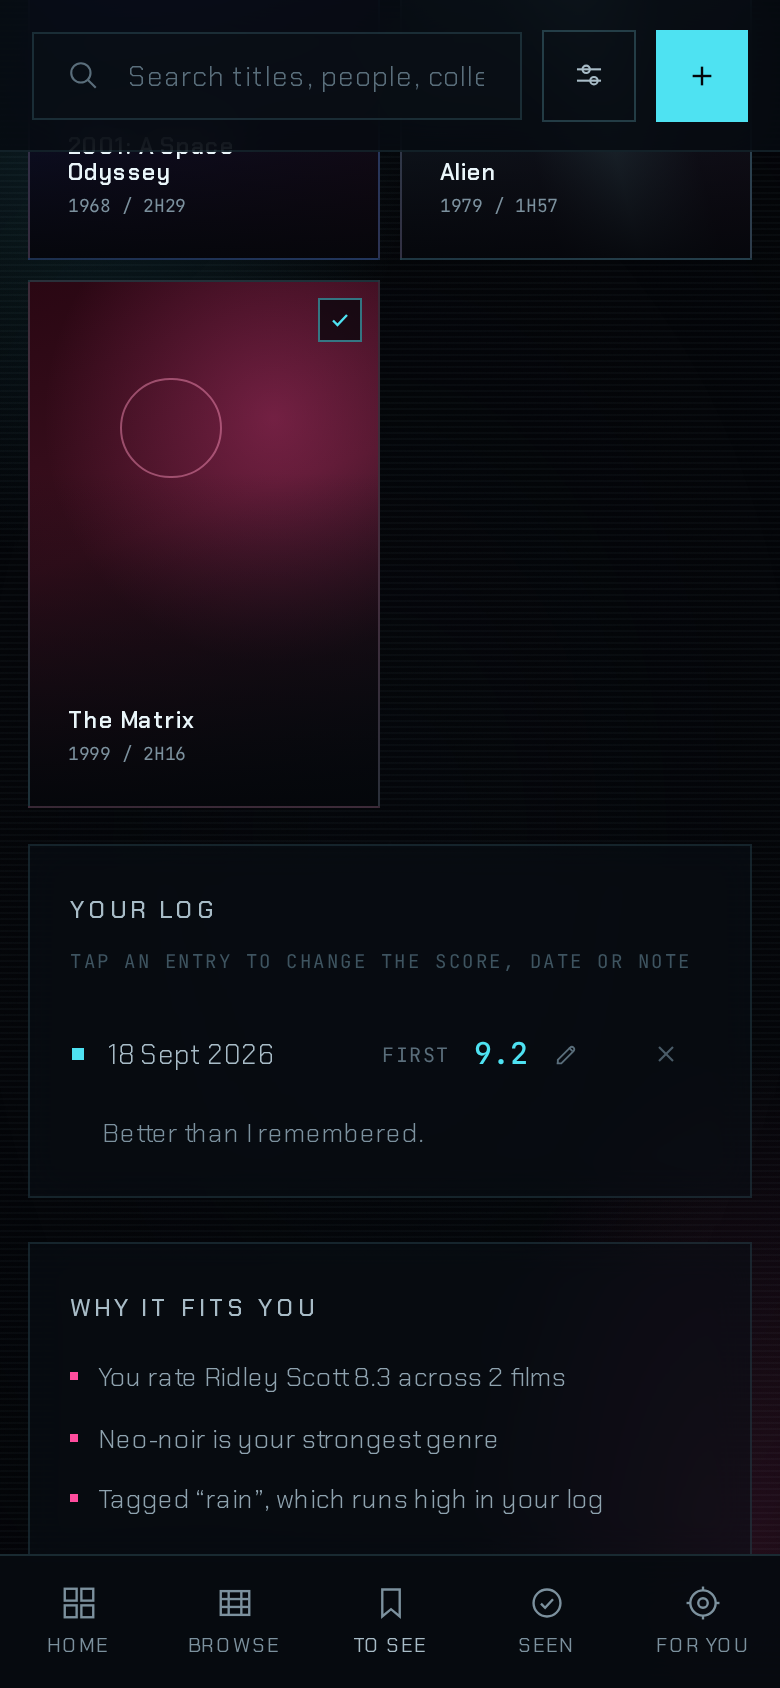
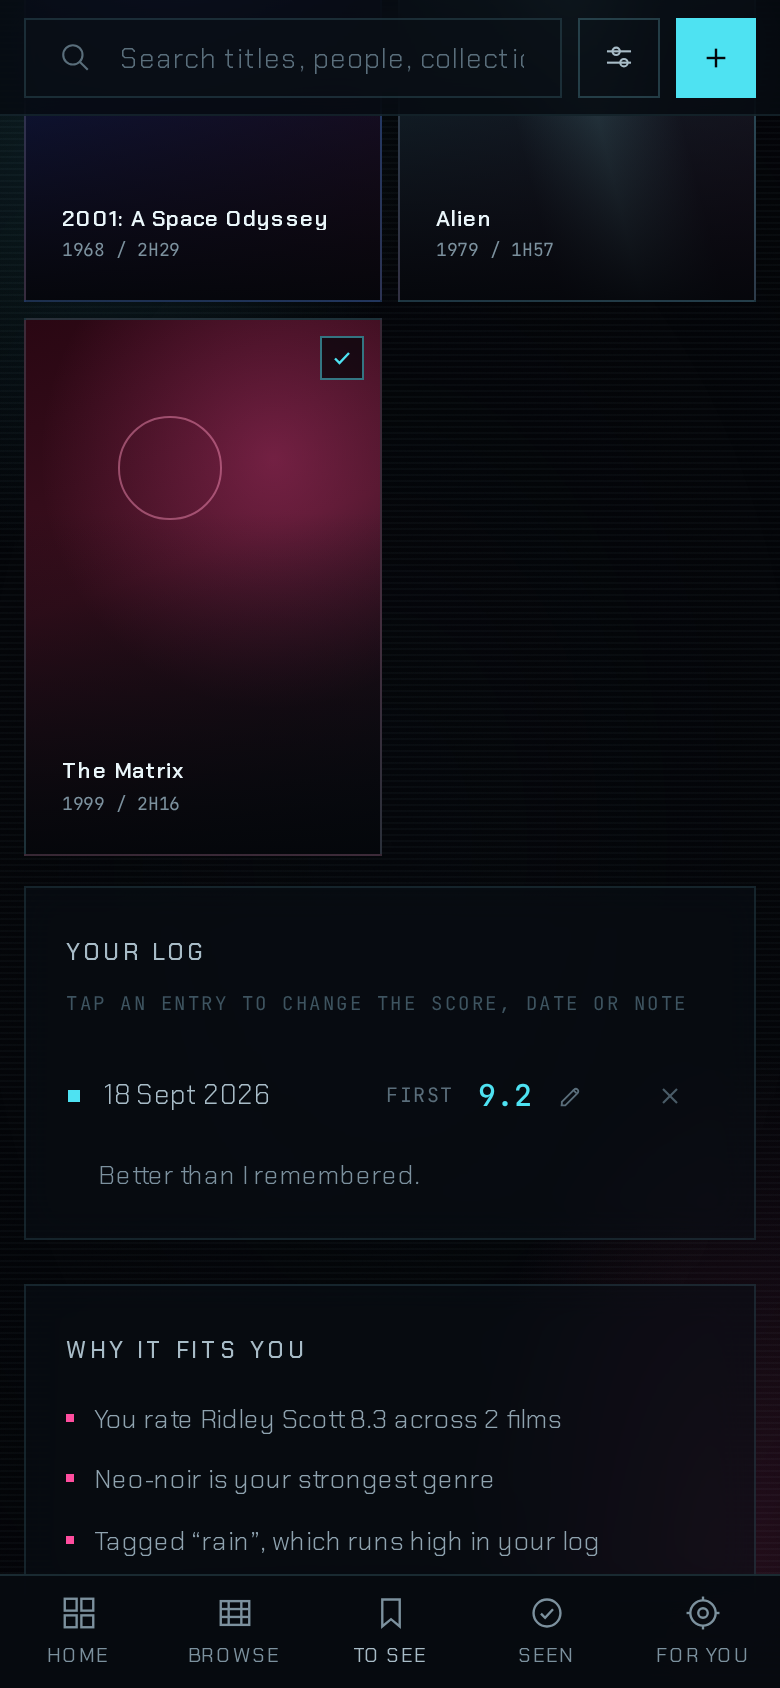
Let a watch be removed, and take the phone scale down again
A film marked seen by accident could only be un-marked from a small x on
that film's own page. From Seen — where you would actually go looking —
there was no way back at all.

The edit box now carries REMOVE, so it is reachable from anywhere you can
open an entry. It takes two taps rather than a confirm dialog, which on a
phone lands under your thumb mid-scroll: the first tap arms it and turns
the footer note magenta ("there is no undo"), the second deletes. It
disarms itself after five seconds, CANCEL leaves the entry alone, and it
only appears when editing — never while logging something new.

Second pass on the phone scale, smaller again throughout: the top bar
76px -> 58px and the tab bar 64 -> 54, which is height every route pays;
headings 21 -> 19px, tonight's pick 27 -> 24px, stat figures 24 -> 21px;
gutters 14 -> 12px, section gaps 18 -> 15px, panels 16 -> 14px; buttons
46 -> 42, chips 34 -> 31; poster captions and grid gaps tightened.

Tap targets came down with it — chips are the smallest at 31px, under
the 44px usually recommended. That is the trade for the density asked
for, and it is one line to raise if anything turns out fiddly to hit.

Verified in Chromium against the built bundle: removing an entry from
Seen, including that one tap does not delete, that it disarms itself,
that CANCEL is safe, that the right entry goes, that it stays gone after
a reload and the dashboard count follows; the edit box checked for
[…]

diff --git a/src/styles/layout.css b/src/styles/layout.css
@@ -605,11 +605,11 @@
   .grid-posters {
     /* Three across, the density a phone film grid is normally read at. */
     grid-template-columns: repeat(auto-fill, minmax(100px, 1fr));
-    gap: 10px;
+    gap: 8px;
   }
-  .poster > .cap { padding: 9px 8px; gap: 2px; }
+  .poster > .cap { padding: 8px 7px; gap: 1px; }
   .poster > .cap b {
-    font-size: 11.5px;
+    font-size: 11px;
     letter-spacing: 0.02em;
     /* A title with no space in it (Annihilation) is wider than the card.
        Left alone it was sliced mid-word, since line-clamp only ellipsises
@@ -627,27 +627,45 @@
 
   /* The chips were sized for thumbs on a tablet; at this width they cost a
      third of the row each. */
-  .chip { height: 34px; padding: 0 13px; font-size: 11px; }
-  .filter-rows { gap: 8px; }
-  .filter-row { gap: 8px; }
+  .chip { height: 31px; padding: 0 11px; font-size: 10.5px; }
+  .filter-rows { gap: 7px; }
+  .filter-row { gap: 7px; }
 
-  .screen { --gutter: 14px; padding: 16px var(--gutter) 28px; }
+  .screen { --gutter: 12px; padding: 13px var(--gutter) 26px; }
   /* The gaps between sections are set inline per screen, so they need
      overriding here rather than at the source. */
-  .screen { gap: 18px !important; }
-  .screen-head { gap: 10px; }
+  .screen { gap: 15px !important; }
+  .screen-head { gap: 9px; }
 
-  .h1 { font-size: 21px; letter-spacing: 0.04em; }
-  .h2, .h3 { font-size: 12px; }
-  .meta { font-size: 10px; }
-  .lbl { font-size: 9.5px; }
+  .h1 { font-size: 19px; letter-spacing: 0.04em; }
+  .h2, .h3 { font-size: 11.5px; }
+  .meta { font-size: 9.5px; }
+  .lbl { font-size: 9px; }
 
-  .panel { padding: 16px; }
-  .hero-body { padding: 16px 14px; }
-  .keyart { min-height: 220px; }
+  .panel { padding: 14px; }
+  .hero-body { padding: 14px 12px; }
+  .keyart { min-height: 190px; }
 
-  .starter-note { padding: 12px 13px; gap: 10px; }
-  .starter-note b + span { font-size: 12px; }
+  /* The bar is fixed at the top of every screen, so its height is the one
+     size that costs on every route. */
+  .topbar { height: 58px; padding: 0 12px; gap: 8px; }
+  .topbar .field { height: 40px; }
+  .topbar .btn, .topbar .btn-icon-sm { height: 40px; padding: 0 11px; }
+
+  .nav-item { height: 54px; }
+  .main { padding-bottom: 54px; }
+
+  .stat { min-height: 66px; padding: 10px 12px; gap: 8px; }
+  .stat b { font-size: 21px; }
+
+  .btn { height: 42px; font-size: 12px; }
+  .btn-sm { height: 36px; }
+
+  .list-row { padding: 12px; gap: 10px 12px; }
+  .empty-note { padding: 26px 18px; font-size: 13px; }
+
+  .starter-note { padding: 11px 12px; gap: 9px; }
+  .starter-note b + span { font-size: 11.5px; }
 }
 
 /* ── tonight's pick ───────────────────────────────────────────────────
@@ -662,7 +680,7 @@
 }
 
 @media (max-width: 860px) { .hero-title { font-size: 34px; } }
-@media (max-width: 480px) { .hero-title { margin-top: 12px; font-size: 27px; } }
+@media (max-width: 480px) { .hero-title { margin-top: 10px; font-size: 24px; } }
 
 /* ── the score on Seen, as an edit control ────────────────────────────
    Mirrors .log-entry on the film page: tap the rating to change it. */
@@ -707,4 +725,29 @@
     text-overflow: ellipsis;
     white-space: nowrap;
   }
+}
+
+/* ── removing a watch ─────────────────────────────────────────────────
+   Quiet until armed, then unmistakably the destructive one. */
+.btn-danger {
+  border: 1px solid rgba(255, 77, 158, 0.32);
+  background: none;
+  color: var(--magenta);
+}
+.btn-danger:hover { border-color: var(--magenta); background: rgba(255, 77, 158, 0.08); }
+.btn-danger.is-armed {
+  border-color: var(--magenta);
+  background: var(--magenta);
+  color: var(--void);
+  font-weight: 500;
+}
+
+.modal-foot .foot-note { flex-grow: 1; }
+
+@media (max-width: 640px) {
+  /* Four things do not fit on one line at this width; the note takes its
+     own row above the buttons rather than squeezing them. */
+  .modal-foot { flex-wrap: wrap; gap: 10px; padding: 16px 18px; }
+  .modal-foot .foot-note { flex: 1 0 100%; line-height: 1.5; }
+  .modal-foot .btn { flex: 1 1 auto; }
 }

diff --git a/src/components/LogModal.tsx b/src/components/LogModal.tsx
@@ -33,6 +33,9 @@ export function LogModal({
   const [score, setScore] = useState(editing ? Math.round(editing.score * 10) : 75);
   const [note, setNote] = useState(editing?.note ?? '');
   const [collections, setCollections] = useState<string[]>([]);
+  /* Removing a watch cannot be undone, so it takes two taps rather than a
+     confirm dialog — which on a phone lands under your thumb mid-scroll. */
+  const [armed, setArmed] = useState(false);
 
   const alreadySeen = useMemo(
     () => (picked ? state.log.some((e) => e.filmId === picked.id) : false),
@@ -43,6 +46,13 @@ export function LogModal({
   useEffect(() => {
     if (!editing) setRewatch(alreadySeen);
   }, [alreadySeen, editing]);
+
+  // Never leave the delete armed: step away and it goes back to safe.
+  useEffect(() => {
+    if (!armed) return;
+    const t = setTimeout(() => setArmed(false), 5000);
+    return () => clearTimeout(t);
+  }, [armed]);
 
   useEffect(() => {
     const onKey = (e: KeyboardEvent) => {
@@ -83,6 +93,12 @@ export function LogModal({
     };
     if (editing) dispatch({ type: 'editLog', entry });
     else dispatch({ type: 'log', entry, collections });
+    onClose();
+  }
+
+  function remove() {
+    if (!editing) return;
+    dispatch({ type: 'unlog', id: editing.id });
     onClose();
   }
 
@@ -212,13 +228,27 @@ export function LogModal({
         </div>
 
         <div className="modal-foot">
-          <span className="meta" style={{ flexGrow: 1, fontSize: 10, color: 'var(--ink-7)' }}>
-            {!picked
-              ? 'PICK A FILM TO CONTINUE'
-              : editing
-                ? 'UPDATES YOUR SCORE AND YOUR PICKS'
-                : `THIS WILL BE FILM ${state.log.length + 1} AND UPDATES YOUR PICKS`}
+          <span
+            className="meta foot-note"
+            style={{ fontSize: 10, color: armed ? 'var(--magenta-hi)' : 'var(--ink-7)' }}
+          >
+            {armed
+              ? 'THIS DELETES THE WATCH AND ITS SCORE — THERE IS NO UNDO'
+              : !picked
+                ? 'PICK A FILM TO CONTINUE'
+                : editing
+                  ? 'UPDATES YOUR SCORE AND YOUR PICKS'
+                  : `THIS WILL BE FILM ${state.log.length + 1} AND UPDATES YOUR PICKS`}
           </span>
+          {editing && (
+            <button
+              type="button"
+              className={armed ? 'btn btn-danger is-armed' : 'btn btn-danger'}
+              onClick={() => (armed ? remove() : setArmed(true))}
+            >
+              {armed ? 'TAP AGAIN' : 'REMOVE'}
+            </button>
+          )}
           <button type="button" className="btn btn-ghost" onClick={onClose}>CANCEL</button>
           <button type="button" className="btn btn-primary" disabled={!picked} onClick={save}>
             <Icon name="check" size={15} width={2.2} colour="var(--void)" />
